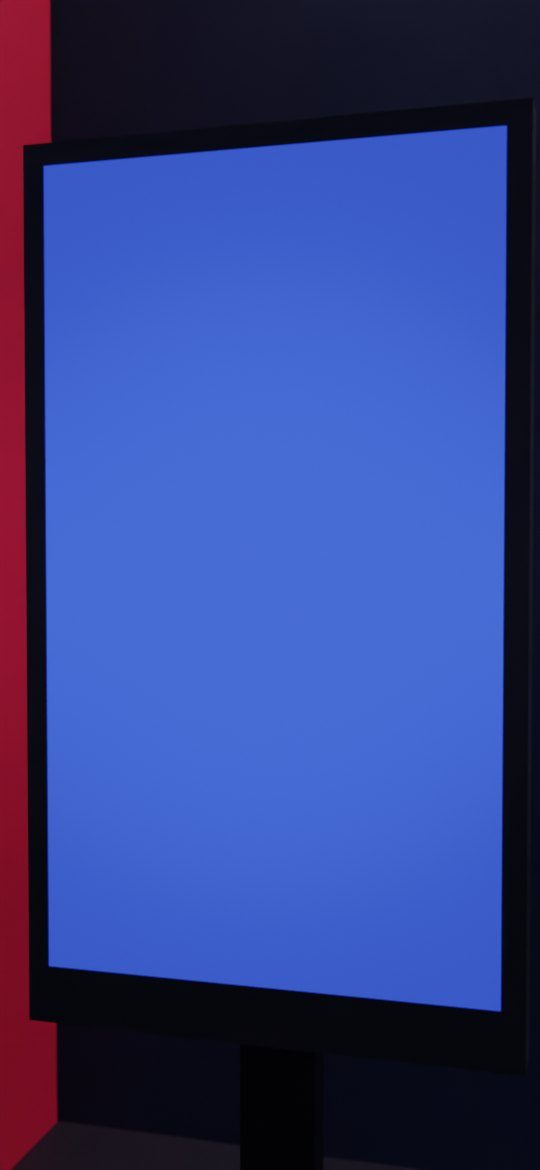
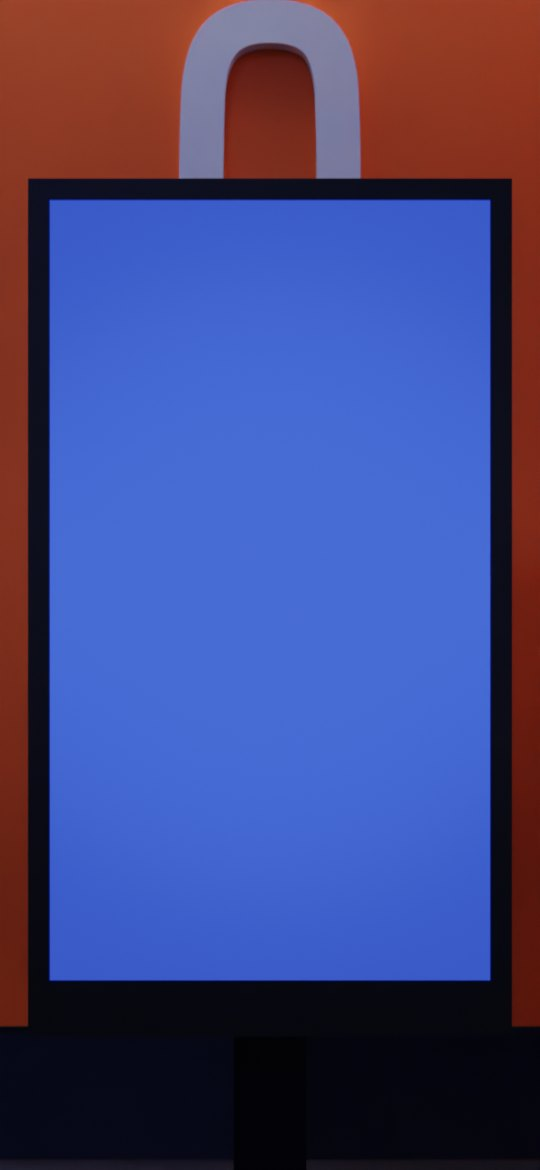
Cinema: door totem in front of the room numeral, square on; review round 6 fixes
The room-number panels were hidden behind the corridor wall's face; they now
stand proud of it, and on phones the totem stands in front of one, filmed square
on (pinned text never wobbles). Seat chosen so the letters clear the front rows.
Phone cards keep their height; one-line search snippets centred on the match;
packed slots under a 'Later that day' divider; spacing no longer lost to a
specificity clash; quieter text-only link.

Changed region(s): [[0.0, 0.0, 1.0, 1.0], [0.563, 0.9846, 0.5926, 1.0], [0.4148, 0.9846, 0.4444, 1.0]]

diff --git a/site/cinema/cinema.css b/site/cinema/cinema.css
@@ -29,7 +29,7 @@ button, input, a { font: inherit; color: inherit; }
 .face *, .face *::before, .face *::after { box-sizing: border-box; }
 .face :focus-visible { outline: 3px solid #fff; outline-offset: 3px; box-shadow: 0 0 0 7px rgba(246, 146, 30, .55); }
 .face button { cursor: pointer; }
-.face h1, .face h2, .face p { margin: 0; }
+:where(.face) :where(h1, h2, p) { margin: 0; }   /* zero specificity, so .tldr, .offnote etc. keep their spacing */
 
 /* the hall screen is an LCD: a little glare, and its light spilling onto the bezel */
 .face.is-lcd { box-shadow: 0 0 60px 6px rgba(40, 70, 220, .28); }
@@ -42,8 +42,8 @@ button, input, a { font: inherit; color: inherit; }
   opacity: .5; mix-blend-mode: soft-light; }
 
 /* chrome outside the screens: small, quiet, fixed */
-.exit { position: fixed; z-index: 5; left: 14px; top: calc(12px + env(safe-area-inset-top, 0px)); background: rgba(8, 11, 30, .72); color: var(--muted);
-  border: 1px solid rgba(174, 184, 236, .3); border-radius: 999px; padding: 7px 12px; font-size: 13px; text-decoration: none; backdrop-filter: blur(6px); }
+.exit { position: fixed; z-index: 5; left: 12px; top: calc(10px + env(safe-area-inset-top, 0px)); background: rgba(5, 7, 20, .55); color: rgba(174, 184, 236, .85);
+  border: 0; border-radius: 999px; padding: 6px 11px; font-size: 12px; text-decoration: none; backdrop-filter: blur(6px); }
 .exit:hover { color: var(--ink); border-color: var(--muted); }
 .exit:focus-visible { outline: 3px solid #fff; outline-offset: 2px; }
 .dock { position: fixed; z-index: 5; left: 50%; bottom: calc(16px + env(safe-area-inset-bottom, 0px)); translate: -50% 0; display: flex; gap: 8px; align-items: center; }
@@ -76,7 +76,7 @@ button, input, a { font: inherit; color: inherit; }
 .search::placeholder { color: #8f99d0; }
 .search:focus-visible { outline: none; border-color: var(--orange); }
 .nav { display: flex; flex-direction: column; gap: 10px; }
-.nav .strip { flex-wrap: wrap; overflow: visible; padding: 0; margin: 0; }
+.nav .days { flex-wrap: wrap; overflow: visible; padding: 0; margin: 0; }
 .pill { flex: none; background: transparent; border: 2px solid var(--line); border-radius: 9px; padding: 7px 13px; font-size: 19px; font-weight: 600; color: var(--muted); white-space: nowrap; }
 @media (hover: hover) { .pill:hover { border-color: var(--muted); color: var(--ink); } }
 .pill[aria-pressed="true"] { background: var(--ink); border-color: var(--ink); color: var(--deep); }
@@ -90,12 +90,18 @@ button, input, a { font: inherit; color: inherit; }
 .slot-head span { font-size: 18px; color: var(--muted); }
 .slot-head.is-plain span { color: var(--ink); font-size: 20px; font-weight: 600; }
 .cards { display: grid; grid-template-columns: repeat(4, minmax(0, 1fr)); grid-auto-rows: auto; gap: 12px; align-content: start; padding: 6px; margin: -6px; }
-.cards > .card { height: 178px; }
+.cards > .card { height: 172px; }
+.cards .later { grid-column: 1 / -1; display: flex; align-items: center; gap: 12px; font-size: 17px; font-weight: 700; color: var(--muted); padding: 2px 0; }
+.cards .later::after { content: ""; flex: 1; height: 1px; background: var(--line); }
+.prog.is-tall .cards .later { font-size: 13px; }
 .cards.is-exact { grid-template-rows: repeat(2, minmax(0, 1fr)); height: 100%; }
 .cards.is-exact > .card { height: auto; min-height: 0; }
 .card { overflow: hidden; }
 .cards.is-exact .card .title { -webkit-line-clamp: 3; }
-.card .why { font-size: 16px; line-height: 1.3; color: var(--muted); display: -webkit-box; -webkit-line-clamp: 2; -webkit-box-orient: vertical; overflow: hidden; }
+.cards.is-packed > .card { height: 140px; gap: 6px; }
+.cards.is-packed .card .title { -webkit-line-clamp: 2; }
+.cards.is-packed .card .who { -webkit-line-clamp: 1; }
+.card .why { font-size: 16px; line-height: 1.35; color: var(--muted); white-space: nowrap; overflow: hidden; text-overflow: ellipsis; flex: none; }
 .card:not(.is-off) .why { color: var(--deep); opacity: .8; }
 .card .why mark { background: rgba(246, 146, 30, .35); color: inherit; border-radius: 3px; padding: 0 2px; }
 .card:not(.is-off) .why mark { background: rgba(10, 15, 46, .18); }
@@ -109,7 +115,7 @@ button, input, a { font: inherit; color: inherit; }
 .card .where small { font-size: 16px; font-weight: 600; }
 .card .where b.is-text { font-size: 22px; font-stretch: 100%; }
 .card .room b { font-size: 30px; font-weight: 800; font-stretch: 125%; line-height: .9; white-space: nowrap; }
-.card .title { font-size: 19px; font-weight: 700; line-height: 1.18; display: -webkit-box; -webkit-line-clamp: 4; -webkit-box-orient: vertical; overflow: hidden; }
+.card .title { font-size: 19px; font-weight: 700; line-height: 1.18; padding-bottom: 1px; display: -webkit-box; -webkit-line-clamp: 4; -webkit-box-orient: vertical; overflow: hidden; }
 .card .who { font-size: 17px; line-height: 1.3; opacity: .88; display: -webkit-box; -webkit-line-clamp: 2; -webkit-box-orient: vertical; overflow: hidden; }
 .card.is-off { background: var(--panel); color: var(--ink); box-shadow: inset 0 0 0 2px var(--line); }
 .card.is-off .who { color: var(--muted); opacity: 1; }
@@ -132,13 +138,13 @@ button, input, a { font: inherit; color: inherit; }
 .prog.is-tall .slot { gap: 8px; }
 .prog.is-tall .slot-head b { font-size: 26px; }
 .prog.is-tall .slot-head span { font-size: 13px; }
-.prog.is-tall .cards { grid-template-columns: minmax(0, 1fr); grid-auto-rows: auto; gap: 8px; }
+.prog.is-tall .cards { grid-template-columns: minmax(0, 1fr); grid-auto-rows: max-content; gap: 8px; }
 .prog.is-tall .card { padding: 10px 12px 11px; gap: 4px; border-radius: 10px; }
 .prog.is-tall .card .room { font-size: 13px; }
 .prog.is-tall .card .where small { font-size: 12px; }
-.prog.is-tall .card .why { font-size: 13px; -webkit-line-clamp: 1; }
+.prog.is-tall .card .why { font-size: 13px; }
 .prog.is-tall .card .room b { font-size: 22px; }
-.prog.is-tall .card .title { font-size: 16px; -webkit-line-clamp: 3; }
+.prog.is-tall .card .title { font-size: 16px; -webkit-line-clamp: 2; padding-bottom: 1px; }
 .prog.is-tall .card .who { font-size: 13px; -webkit-line-clamp: 1; margin-top: 2px; }
 .prog.is-tall .divider { font-size: 13px; padding: 6px 0 2px; }
 .prog.is-tall .divider b { font-size: 17px; }

diff --git a/site/cinema/cinema.js b/site/cinema/cinema.js
@@ -17,7 +17,7 @@ const ytUrl = (t, sec = 0) => `https://www.youtube.com/watch?v=${t.videoId}${sec
 const EMBED = window.self === window.top;      // YouTube can't be embedded inside the artifact sandbox
 const reduceMotion = matchMedia("(prefers-reduced-motion: reduce)").matches;
 const IMG = { laptop: [1920, 1080], phone: [1080, 2340] };
-const CANVAS = { hall: 1060, "hall-phone": 340, seat: 1300, "door-phone": 340 };   // design widths in css px
+const CANVAS = { hall: 980, "hall-phone": 340, seat: 1300, "door-phone": 340 };   // design widths in css px
 
 const el = (tag, attrs = {}, ...kids) => {
   const n = document.createElement(tag);
@@ -204,14 +204,15 @@ function why(t, terms) {
   for (const [, text] of fields) {
     const lower = text.toLowerCase(), w = terms.find((x) => lower.includes(x));
     if (!w) continue;
-    const i = lower.indexOf(w), a = Math.max(0, i - 28), b = Math.min(text.length, i + w.length + 40);
+    const i = lower.indexOf(w), a = Math.max(0, i - 14), b = Math.min(text.length, i + w.length + 60);
     return el("span", { class: "why" }, a ? "…" : "", text.slice(a, i), el("mark", { text: text.slice(i, i + w.length) }), text.slice(i + w.length, b), b < text.length ? "…" : "");
   }
   return null;
 }
 function card(t, { when: showWhen = null, terms = null } = {}) {
   const n = roomNo(t), on = walkable.has(n);
-  const label = showWhen === "day" ? `${fShort.format(new Date(t.start))}, ${fTime.format(new Date(t.start))}` : showWhen === "time" ? fTime.format(new Date(t.start)) : typeLabel(t);
+  const label = showWhen === "day" ? `${fShort.format(new Date(t.start))}, ${fTime.format(new Date(t.start))}` : showWhen === "time" ? fTime.format(new Date(t.start))
+    : /^BOF/.test(t.room || "") ? "Downstairs" : typeLabel(t);
   const hint = terms && why(t, terms);
   return el("button", { class: `card${on ? "" : " is-off"}`, type: "button", onclick: () => goTalk(t),
       "aria-label": [t.title, speakers(t), t.room, showWhen ? when(t) : null, on ? "walks you to your seat" : null].filter(Boolean).join(", ") },
@@ -259,13 +260,11 @@ function programme(tall) {
     // a short slot leaves room for what's on next: fill the screen with the following talks, each with its time
     const later = talks.filter((t) => t.start && dayKey(t.start) === day && t.start > slot).sort((a, b) => a.start.localeCompare(b.start) || (roomNo(a) || 99) - (roomNo(b) || 99));
     const fill = here.length < (tall ? 4 : 8) ? later.slice(0, (tall ? 6 : 8) - here.length) : [];
-    const cards = el("div", { class: `cards scroller${fill.length || tall ? "" : " is-exact"}`, tabindex: "-1" },
-      here.map((t) => card(t)), fill.map((t) => card(t, { when: "time" })));
-    const allWalk = here.every((t) => walkable.has(roomNo(t)));
-    const someWalk = here.some((t) => walkable.has(roomNo(t)));
-    const hint = allWalk ? "Pick one and we'll walk you to your seat." : someWalk ? "Orange: we'll walk you to the cinema room. Others: the summary opens here." : "The summary opens here.";
+    const cards = el("div", { class: `cards scroller${tall ? "" : fill.length ? " is-packed" : " is-exact"}`, tabindex: "-1" },
+      here.map((t) => card(t, { when: fill.length ? "time" : null })),
+      fill.length ? el("div", { class: "later", text: "Later that day" }) : null, fill.map((t) => card(t, { when: "time" })));
     put(body, el("div", { class: "slot-head" }, el("b", { text: fTime.format(new Date(slot)) }),
-        el("span", { text: `${fDayLong.format(new Date(slot))}, ${here.length} ${here.length === 1 ? "session" : "sessions"}${fill.length ? ", then what's next" : ""}. ${hint}` })),
+        el("span", { text: `${fDayLong.format(new Date(slot))}, ${here.length} ${here.length === 1 ? "session" : "sessions"}. Pick a talk to take your seat.` })),
       cards);
     requestAnimationFrame(() => { centre(timeRow); if (tall) centre(dayRow); for (const s of panel.querySelectorAll(".strip, .scroller")) watchScroll(s); });
   }
@@ -312,7 +311,7 @@ function talkScreen(t, tall, onFloor, doorRoom = null) {
     put(main,
       doorRoom && tall ? el("div", { class: "door-sign" }, el("small", { text: "Room" }), el("b", { text: String(doorRoom) }), el("span", { text: "Now showing" })) : null,
       el("div", { class: "meta", text: [doorRoom && tall ? null : t.room, when(t), typeLabel(t)].filter(Boolean).join(", ") }),
-      !onFloor ? el("p", { class: "offnote", text: /^BOF/.test(t.room || "") ? "A meeting room downstairs: no cinema seat for this one." : "No cinema seat to walk you to for this one." }) : null,
+      !onFloor ? el("p", { class: "offnote", text: /^BOF/.test(t.room || "") ? "Downstairs meeting room, no cinema seat." : "No cinema seat to walk you to for this one." }) : null,
       el("h2", { text: t.title, style: `--title:${titleSize(t.title, 40, 31)}px;--title-s:${titleSize(t.title, 23, 19)}px` }),
       el("div", { class: "who-l", text: speakers(t, true) }),
       !tall && s.tldr ? el("p", { class: "tldr", text: s.tldr }) : null,

diff --git a/scripts/blender/build_scene.py b/scripts/blender/build_scene.py
@@ -700,11 +700,13 @@ for r in auditoriums:
     # numeral panel with the big white room number
     side_y = -along
     panel_y = yc + side_y * 2.75
-    B.box("numeral", {"x": wall_x + (0.0 if west else -0.06), "y": panel_y - 0.95, "w": 0.06, "h": 1.9}, FH + 0.33, FH + 3.38)
-    text_object(str(n), 2.6, (wall_x + face * 0.07, panel_y, FH + 1.85), (math.pi / 2, 0, math.pi / 2 if west else -math.pi / 2), M["white"], 0.02, 0.03)
-    # the schedule totem beside the door, facing the corridor (on phones, the talk is shown on it)
-    sy = yc - side_y * 2.4
-    sx = wall_x + face * 1.2
+    # proud of the corridor wall's face, which stands about 9 cm in front of the room's wall line
+    B.box("numeral", {"x": min(wall_x + face * 0.12, wall_x + face * 0.18), "y": panel_y - 0.95, "w": 0.06, "h": 1.9}, FH + 0.33, FH + 3.38)
+    text_object(str(n), 2.6, (wall_x + face * 0.2, panel_y, FH + 1.85), (math.pi / 2, 0, math.pi / 2 if west else -math.pi / 2), M["white"], 0.02, 0.03)
+    # the schedule totem in front of the room-number panel, facing the corridor (on phones, the talk is shown on it,
+    # with the big numeral rising behind it)
+    sy = panel_y
+    sx = wall_x + face * 1.1
     tw, th, tz = 0.70, 1.24, FH + 1.42
     B.box("bezel", {"x": sx - 0.035, "y": sy - tw / 2 - 0.035, "w": 0.07, "h": tw + 0.07}, tz - th / 2 - 0.09, tz + th / 2 + 0.035)
     B.box("tableFrame", {"x": sx - face * 0.07 - 0.03, "y": sy - 0.06, "w": 0.06, "h": 0.12}, FH + 0.04, tz - th / 2)
@@ -1328,7 +1330,7 @@ def seat_for(n, fov=52):
     want = fit_distance(scr["w"], scr["h"], fov, 0.8)      # the screen's edges and the black wall stay in shot
     # the right distance, near the middle, and eyes level with the screen's middle so the talk isn't keystoned
     best = min(seats, key=lambda s: abs(abs(s["bounds"]["x"] + s["bounds"]["w"] / 2 - scr["x"]) - want) +
-               abs(s["bounds"]["y"] + s["bounds"]["h"] / 2 - scr["y"]) * 0.6 + abs(FH + s["height"] + 0.8 - scr["z"]) * 2.0)
+               abs(s["bounds"]["y"] + s["bounds"]["h"] / 2 - scr["y"]) * 0.6 + abs(FH + s["height"] + 0.8 - (scr["z"] - scr["h"] / 2 + 1.3)) * 2.0)
     seat = (best["bounds"]["x"] + best["bounds"]["w"] / 2, best["bounds"]["y"] + best["bounds"]["h"] / 2, FH + best["height"] + 0.8)
     return seat, (scr["x"], seat[1], scr["z"]), fov, seats
 
@@ -1538,20 +1540,21 @@ dist = abs(scr["x"] - seat[0])
 pfov = 2 * math.degrees(math.atan(scr["h"] / 2 / 0.8 / dist))     # the screen fills 80% of a phone's height
 bpy.context.view_layer.update()
 set_res(LAPTOP)
-zlow, zhigh = scr["z"] - scr["h"] / 2, scr["z"] + scr["h"] / 2
-full = [(scr["x"], scr["y"] - scr["w"] / 2, zlow), (scr["x"], scr["y"] + scr["w"] / 2, zlow),
-        (scr["x"], scr["y"] + scr["w"] / 2, zhigh), (scr["x"], scr["y"] - scr["w"] / 2, zhigh)]
-shots[f"seat-{n}"] = {"kind": "still", "overlay": {"screen": screen_quad(full, seat_cam)}, "size": {"screen": [scr["w"], zhigh - zlow]},
+zlow, zhigh = scr["z"] - scr["h"] / 2 - 0.02, scr["z"] + scr["h"] / 2 + 0.02      # 2 cm under the masking: no bright edge
+hw = scr["w"] / 2 + 0.02
+full = [(scr["x"], scr["y"] - hw, zlow), (scr["x"], scr["y"] + hw, zlow), (scr["x"], scr["y"] + hw, zhigh), (scr["x"], scr["y"] - hw, zhigh)]
+shots[f"seat-{n}"] = {"kind": "still", "overlay": {"screen": screen_quad(full, seat_cam)}, "size": {"screen": [2 * hw, zhigh - zlow]},
                       "front": f"seat-{n}-front"}
 
 # phones: the walk stops at the door, and the talk is on the totem beside it (a cinema screen is far too wide to
 # read in portrait); the red portal and the corridor are soft behind it
 tot = doors[n]["totem"]
-dface, dside = doors[n]["face"], (1 if doors[n]["totem"]["y"] > doors[n]["yc"] else -1)
-ddist = 1.9                                   # a little from the side away from the door, so the red portal shows behind
-_dh = 2 * math.atan(tot["w"] / 2 / 0.86 / ddist)
-door_cam = still_cam(f"cam-door-phone-{n}", (tot["x"] + dface * ddist * 0.96, tot["y"] + dside * ddist * 0.27, tot["z"] + 0.05),
-                     (tot["x"], tot["y"], tot["z"] - 0.02), 2 * math.degrees(math.atan(math.tan(_dh / 2) * PHONE[1] / PHONE[0])), dof=(ddist, 2.0))
+dface = doors[n]["face"]
+ddist = 2.0                                   # square on (text pinned flat never wobbles); the numeral panel frames it
+_dh = 2 * math.atan(tot["w"] / 2 / 0.8 / ddist)
+door_cam = still_cam(f"cam-door-phone-{n}", (tot["x"] + dface * ddist, tot["y"], tot["z"] + 0.12), (tot["x"], tot["y"], tot["z"] + 0.12),
+                     2 * math.degrees(math.atan(math.tan(_dh / 2) * PHONE[1] / PHONE[0])), dof=(ddist, 2.8))
+door_cam.data.shift_y = -0.06                 # the totem a little low in frame, the numeral rising above it
 bpy.context.view_layer.update()
 set_res(PHONE)
 shots[f"door-phone-{n}"] = {"kind": "still", "overlay": {"screen": screen_quad(tot["corners"], door_cam)}, "size": {"screen": [tot["w"], tot["h"]]}}
